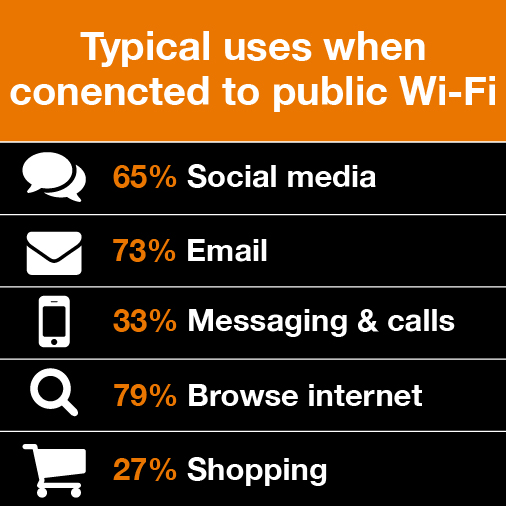
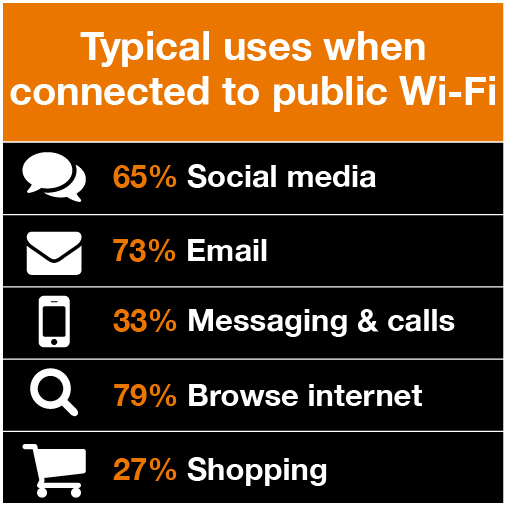
Changed heading size on guide

Changed region(s): [[0.0, 0.0, 1.0, 1.0], [0.1482, 0.1482, 0.2668, 0.2075]]

diff --git a/stylesheets/app.css b/stylesheets/app.css
@@ -18789,9 +18789,8 @@ img[src^='http://placehold.it/'] {
 /* line 61, ../scss/_slick-theme-ruckus.scss */
 .speech-bubble-tail {
   position: relative;
-  background-color: black;
-  margin: 0px 9px; }
-/* line 66, ../scss/_slick-theme-ruckus.scss */
+  background-color: black; }
+/* line 65, ../scss/_slick-theme-ruckus.scss */
 .speech-bubble-tail .arrow-down {
   position: relative;
   content: "";

diff --git a/scss/_slick-theme-ruckus.scss b/scss/_slick-theme-ruckus.scss
@@ -61,7 +61,6 @@
 .speech-bubble-tail {
   position: relative;
   background-color: black;
-  margin: 0px 9px;
 
   .arrow-down {
     position: relative;

diff --git a/entry-three.php b/entry-three.php
@@ -651,9 +651,10 @@ else {
     </div>
 
     <footer id="appendix" class="row full-screen ruckus-background-black">
+        <div class="large-12 columns">
             <div class="row">
                 <div class="large-12 columns">
-                    <h2>Sources</h2>
+                    <h4 class="ruckus-orange">Information Sources</h4>
                     <hr>
                 </div>
             </div>
@@ -673,6 +674,7 @@ else {
                     <p>http://www.maritzmotivation.com/~/media/Files/MaritzMotivationSolutions/Product-Sheets/Maritz-Loyalty-Marketing_Loyalty-Report-US---Summary-of-Key-Insights.pdf</p>
                     <p>http://www.digitalinformationworld.com/2014/01/social-media-influence-on-purchase-decisions-infographic.html</p>
                 </div>
+            </div>
             </div>
     </footer>
 <?php
